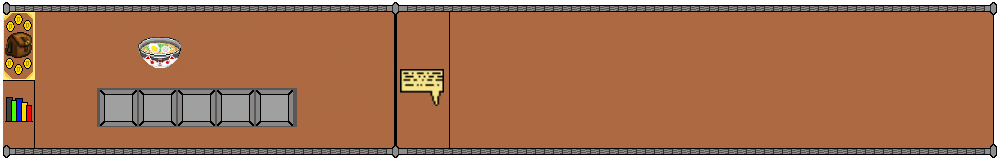
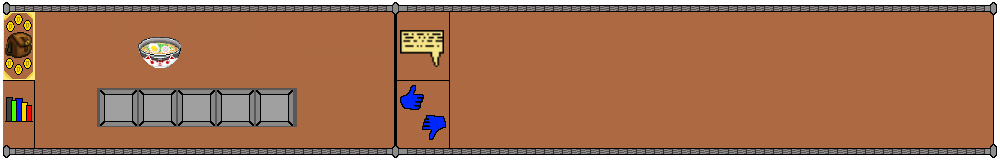
merge

Changed region(s): [[0.372, 0.1875, 0.465, 0.6875], [0.403, 0.7188, 0.465, 0.875]]

diff --git a/Tests/Classes/GUI.py b/Tests/Classes/GUI.py
@@ -9,21 +9,35 @@ class GUI:
 
         self.player = player
 
-        self.ramen = 100
+        self.ramen = self.player.currency
         self.ramen_image = pygame.image.load('ramen.png')
 
-        self.inventory_frame = pygame.image.load('../Resources/Inventory/inventory_frame.png')
-        self.inventory_frame_inventory = pygame.image.load('../Resources/Inventory/inventory_frame_inventory.png')
-        self.inventory_frame_stats = pygame.image.load('../Resources/Inventory/inventory_frame_stats.png')
+        self.previous_tab_0 = INVENTORY_TAB
+        self.previous_tab_1 = CHAT_TAB
 
-        self.inventory0 = pygame.image.load('../Resources/Inventory/inventory_position_0.png')
-        self.inventory1 = pygame.image.load('../Resources/Inventory/inventory_position_1.png')
-        self.inventory2 = pygame.image.load('../Resources/Inventory/inventory_position_2.png')
-        self.inventory3 = pygame.image.load('../Resources/Inventory/inventory_position_3.png')
-        self.inventory4 = pygame.image.load('../Resources/Inventory/inventory_position_4.png')
+        self.inventory_frame = pygame.image.load('../Resources/Inventory/inventory_frame.png')
+
+        self.inventory_frame_inventory_chat = pygame.image.load('../Resources/Inventory/inventory_frame_inventory_chat.png')
+        self.inventory_frame_inventory_reputation = pygame.image.load('../Resources/Inventory/inventory_frame_inventory_reputation.png')
+
+        self.inventory_frame_stats_chat = pygame.image.load('../Resources/Inventory/inventory_frame_stats_chat.png')
+        self.inventory_frame_stats_reputation = pygame.image.load('../Resources/Inventory/inventory_frame_stats_reputation.png')
+
+
+        self.inventory_reputation_0 = pygame.image.load('../Resources/Inventory/inventory_reputation_position_0.png')
+        self.inventory_reputation_1 = pygame.image.load('../Resources/Inventory/inventory_reputation_position_1.png')
+        self.inventory_reputation_2 = pygame.image.load('../Resources/Inventory/inventory_reputation_position_2.png')
+        self.inventory_reputation_3 = pygame.image.load('../Resources/Inventory/inventory_reputation_position_3.png')
+        self.inventory_reputation_4 = pygame.image.load('../Resources/Inventory/inventory_reputation_position_4.png')
+
+        self.inventory_chat_0 = pygame.image.load('../Resources/Inventory/inventory_chat_position_0.png')
+        self.inventory_chat_1 = pygame.image.load('../Resources/Inventory/inventory_chat_position_1.png')
+        self.inventory_chat_2 = pygame.image.load('../Resources/Inventory/inventory_chat_position_2.png')
+        self.inventory_chat_3 = pygame.image.load('../Resources/Inventory/inventory_chat_position_3.png')
+        self.inventory_chat_4 = pygame.image.load('../Resources/Inventory/inventory_chat_position_4.png')
+
 
         self.inventory_index = 0
-        self.inventory_list = [self.inventory0, self.inventory1, self.inventory2, self.inventory3, self.inventory4]
 
         self.health_stamina_frame = pygame.image.load('../Resources/health_stamina_frame.png')
         self.ramen_frame = pygame.image.load('../Resources/ramen_frame.png')
@@ -45,7 +59,16 @@ class GUI:
     def get_inv_index(self):
         return self.inventory_index
 
-    def update(self, DISPLAYSURF, tab):
+    def update(self, DISPLAYSURF, tab, tab1):
+        if tab == NOTHING_TAB:
+            tab = previous_tab_0
+        else:
+            previous_tab_0 = tab
+
+        if tab1 == NOTHING_TAB:
+            tab1 = previous_tab_1
+        else:
+            previous_tab_1 = tab1
         self.health = self.player.get_stat(HEALTH)
         self.stamina = self.player.get_stat(STAMINA)
         #displays the frame surrounding health & stamina
@@ -134,11 +157,19 @@ class GUI:
         charRect.midtop = (90, 557)
 
         if tab == INVENTORY_TAB:
+            if tab1 == CHAT_TAB:
+                self.inventory_list = [self.inventory_chat_0, self.inventory_chat_1, self.inventory_chat_2, self.inventory_chat_3, self.inventory_chat_4]
+            elif tab1 == REPUTATION_TAB:
+                self.inventory_list = [self.inventory_reputation_0, self.inventory_reputation_1, self.inventory_reputation_2, self.inventory_reputation_3, self.inventory_reputation_4]
             DISPLAYSURF.blit(self.inventory_list[self.inventory_index], (0, 439))
             #Displays ': (ramen amount)'
             DISPLAYSURF.blit(ramSurface,ramRect)
         elif tab == STATS_TAB:
-            DISPLAYSURF.blit(self.inventory_frame_stats, (0, 439))
+            if tab1 == CHAT_TAB:
+                DISPLAYSURF.blit(self.inventory_frame_stats_chat, (0, 439))
+            elif tab1 == REPUTATION_TAB:
+                DISPLAYSURF.blit(self.inventory_frame_stats_reputation, (0, 439))
+
             DISPLAYSURF.blit(strengthSurf,strengthRect)
             DISPLAYSURF.blit(intelSurf,intelRect)
             DISPLAYSURF.blit(charSurf, charRect)
@@ -148,11 +179,11 @@ class GUI:
 
 
     #    Displays the inventory
-        x_pos = 415
+        x_pos = 105
         for item in self.inv:
             if item != None:
                 image = item.image
             if tab == INVENTORY_TAB and item != None:
                 #Displays the items
-                DISPLAYSURF.blit(image, (x_pos,520))
+                DISPLAYSURF.blit(image, (x_pos,534))
             x_pos += 38

diff --git a/Tests/tejastest.py b/Tests/tejastest.py
@@ -69,6 +69,9 @@ def load_menu(DISPLAYSURF):
 
 		pygame.display.update()
 		fps_clock.tick(FPS)
+def save_game():
+		shelfFile = shelve.open('../savedGameTrial')
+		shelfFile['health'] = player.health
 
 if __name__ == '__main__':
 
@@ -130,7 +133,6 @@ if __name__ == '__main__':
 
 	inv_flag = True
 	player.speed = 20
-	player.health = 25
 	# Main game loop
 	while True:
 		DISPLAYSURF.fill(BLACK)
@@ -145,10 +147,12 @@ if __name__ == '__main__':
 			if event.type == KEYDOWN:
 				if event.key == K_e:
 					player.interact(True)
+				if event.key == K_o:
+					save_game()
 				if event.key == K_RIGHT:
-					gui.increase_index(inv_tab)
+					gui.increase_index(tab1)
 				elif event.key == K_LEFT:
-					gui.decrease_index(inv_tab)
+					gui.decrease_index(tab1)
 
 			elif event.type == QUIT:
 				pygame.quit()
@@ -166,12 +170,17 @@ if __name__ == '__main__':
 		elif key_pressed[K_d]:
 			player.update(True, RIGHT)
 
+		if key_pressed[K_5]:
+			tab1 = EMPTY_TAB
+			tab2 = EMPTY_TAB
+		if key_pressed[K_4]:
+			tab2 = REPUTATION_TAB
 		if key_pressed[K_3]:
-			inv_tab = CHAT_TAB
+			tab2 = CHAT_TAB
 		if key_pressed[K_2]:
-			inv_tab = STATS_TAB
+			tab1 = STATS_TAB
 		if key_pressed[K_1]:
-			inv_tab = INVENTORY_TAB
+			tab1 = INVENTORY_TAB
 
 		# Guard start running its state
 		guard.run_state(PATROL_STATE, player)
@@ -192,7 +201,7 @@ if __name__ == '__main__':
 		# Render everything onto the display surface
 		DISPLAYSURF.blit(world, player.camera_pos) # Render Map To The Display
 
-		gui.update(DISPLAYSURF, inv_tab)
+		gui.update(DISPLAYSURF, tab1, tab2)
 
 		pygame.display.update()
 		fps_clock.tick(FPS)

diff --git a/Tests/Classes/settings.py b/Tests/Classes/settings.py
@@ -1,4 +1,4 @@
-import pygame, sys
+import pygame, sys, shelve
 
 pygame.init()
 
@@ -69,16 +69,26 @@ HEALTH = 1
 RAMEN = 2
 
 #Tab values
-inv_tab = 0
+tab1 = 0
+
+NOTHING_TAB = 10
+EMPTY_TAB = 2
 
 INVENTORY_TAB = 0
 STATS_TAB = 1
-CHAT_TAB = 2
+
+tab2 = 0
+
+CHAT_TAB = 0
+REPUTATION_TAB = 1
+
 
 # Skill values
 STRENGTH_SKILL = 0
 INTELLIGENCE_SKILL = 1
 CHARISMA_SKILL = 2
+
+
 
 # actors that are in game
 actors_group = pygame.sprite.Group()
